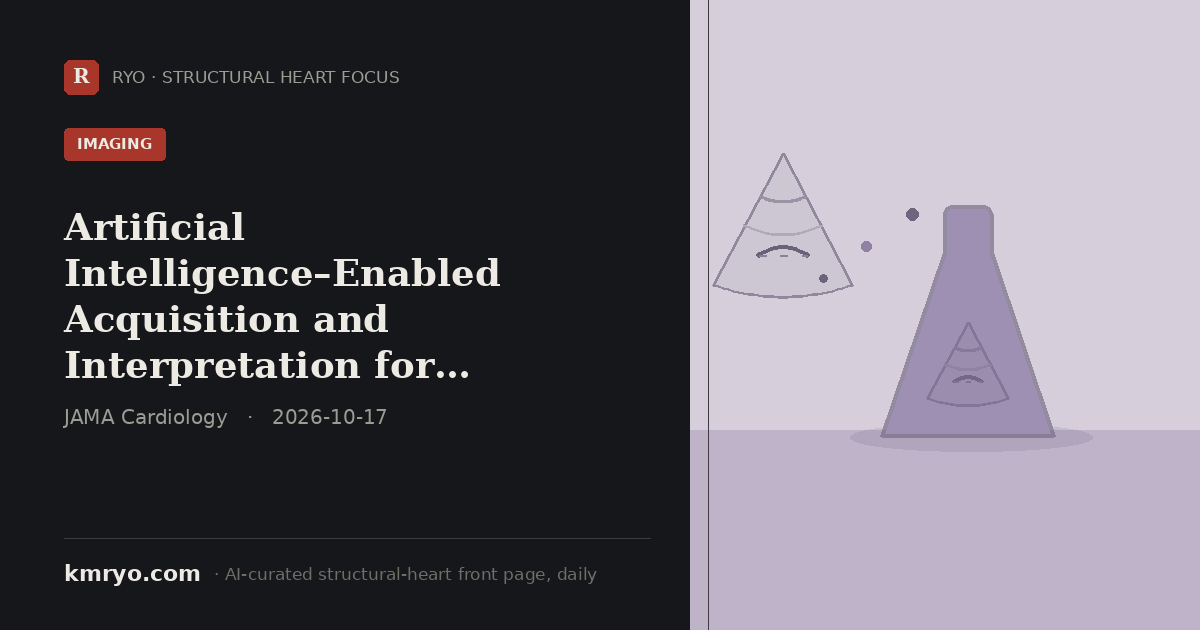
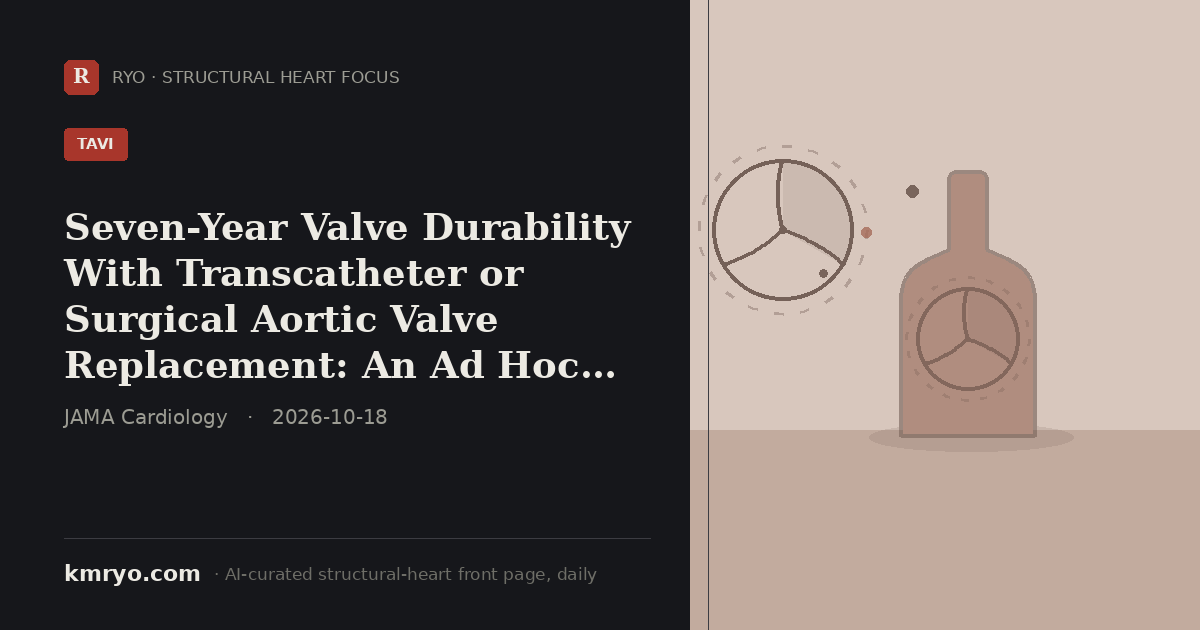
pulse: 2026-10-18 daily update
Claude-Session: https://claude.ai/code/session_011VNhD7Di1DJ4WapQDkRREv

diff --git a/index.html b/index.html
@@ -6,8 +6,8 @@
 <title>Structural Heart Focus — Daily | Dr. Mi Chen · 千觅量子 RYO</title>
 <meta name="description" content="Structural Heart Focus — the day's most important structural-heart reading (top journals, major meetings and the field's conversation), curated daily by an AI agent from inside the Zurich hybrid room. By Dr. Mi Chen · 千觅量子 RYO.">
 <!-- Social share card. Regenerated daily by the pulse agent (pulse/make_share_card.py); og:title/description updated to the day's top story so LinkedIn/WeChat/X show today's headline, not a static portrait. -->
-<meta property="og:title" content="Artificial Intelligence–Enabled Acquisition and Interpretation for Screening Aortic Stenosis">
-<meta property="og:description" content="A Mayo Clinic study in JAMA Cardiology shows an AI system guiding novice operators through focused cardiac ultrasound can flag moderate-or-greater aortic stenosis with 99.7% specificity.">
+<meta property="og:title" content="Seven-Year Valve Durability With Transcatheter or Surgical Aortic Valve Replacement">
+<meta property="og:description" content="A PARTNER 3 ad hoc analysis in JAMA Cardiology finds TAVR and surgical aortic valve replacement have low, similar rates of valve failure through 7 years in low-risk patients.">
 <meta property="og:image" content="https://www.kmryo.com/pulse/img/share/card.png">
 <meta property="og:image:width" content="1200">
 <meta property="og:image:height" content="630">
@@ -16,8 +16,8 @@
 <meta property="og:type" content="website">
 <meta property="og:site_name" content="kmryo.com · Structural Heart Focus">
 <meta name="twitter:card" content="summary_large_image">
-<meta name="twitter:title" content="Artificial Intelligence–Enabled Acquisition and Interpretation for Screening Aortic Stenosis">
-<meta name="twitter:description" content="A Mayo Clinic study in JAMA Cardiology shows an AI system guiding novice operators through focused cardiac ultrasound can flag moderate-or-greater aortic stenosis with 99.7% specificity.">
+<meta name="twitter:title" content="Seven-Year Valve Durability With Transcatheter or Surgical Aortic Valve Replacement">
+<meta name="twitter:description" content="A PARTNER 3 ad hoc analysis in JAMA Cardiology finds TAVR and surgical aortic valve replacement have low, similar rates of valve failure through 7 years in low-risk patients.">
 <meta name="twitter:image" content="https://www.kmryo.com/pulse/img/share/card.png">
[1 lines of base64/hex data omitted]
 <link rel="preconnect" href="https://fonts.googleapis.com">
